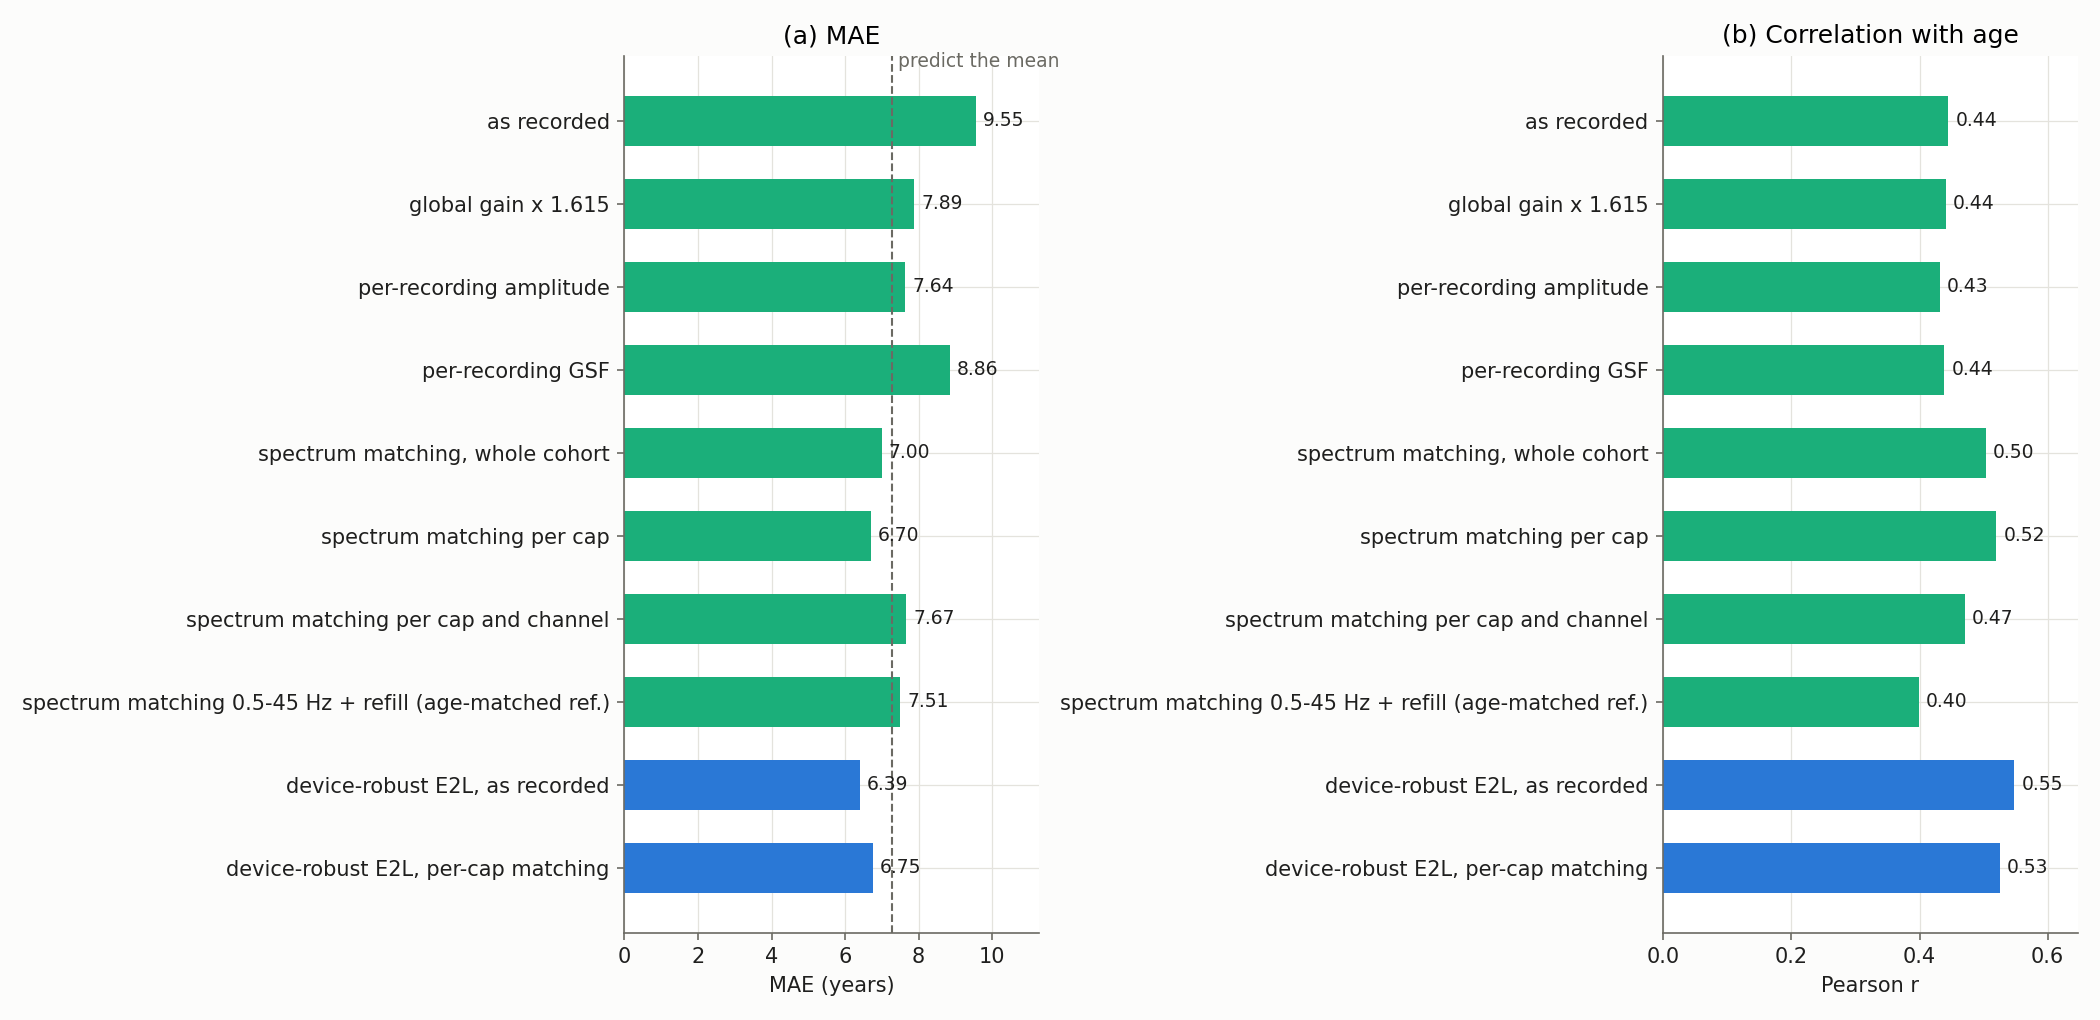
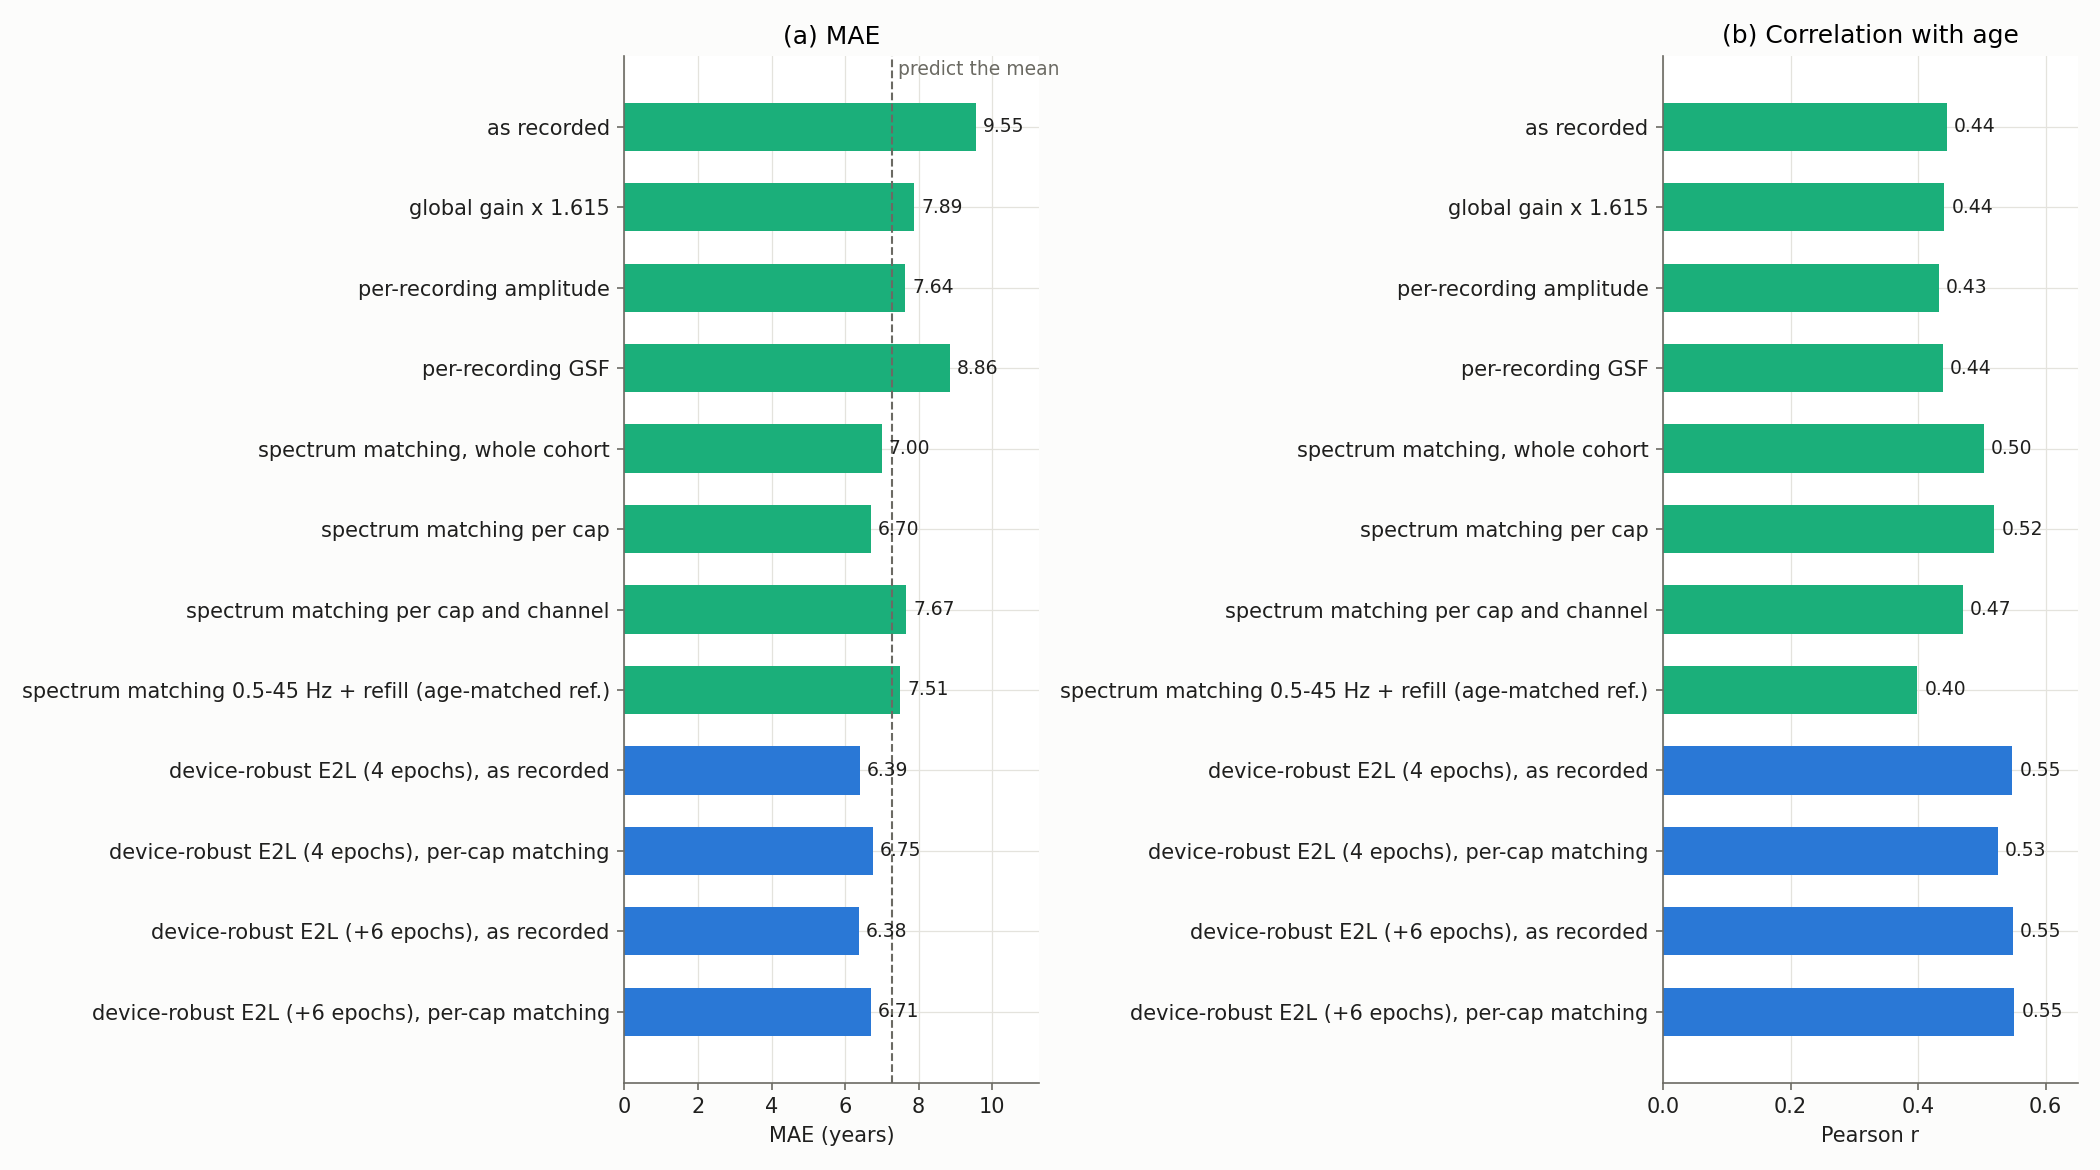
CHBP: device-robust E2L continuation (+6 epochs) results
Continuation of the band 1-45 Hz + amplitude-normalized E2L (Temple + Harvard only):
- in-domain val / test 7.86 / 7.73 (4 epochs 8.10 / 8.04; E2L 7.24 / 7.00)
- LEMON 6.23 (4 epochs 6.52; E2L 5.22), r 0.94
- CHBP as recorded 6.38, bias +0.28, r 0.55 (64-ch 6.03, 120-ch 7.01); E2L 9.55
- known truth: invariant to the CHBP-like degradation (8.50 -> 8.23, r 0.65)
- remaining in-domain cost is a young-age level offset (bias +7.4 vs +5.1, equal
  r and prediction spread) from the discarded amplitude cue; next variant:
  band-only training + cohort-level gain at test time

docs/chbp_domain_shift.md Table 10.3, Figure 10.1, sections 1 and 10.4.

Changed region(s): [[0.4952, 0.0, 0.9905, 0.9725], [0.0, 0.0304, 0.4952, 0.9725], [0.4643, 0.0912, 0.4952, 0.1216]]

diff --git a/scripts/domain_shift_figures.py b/scripts/domain_shift_figures.py
@@ -188,6 +188,7 @@ def tests_table(d, out_csv, chbp_raw, encoding_csv, models=("E2L", "L1", "W4", "
 
 S = "/data/runs/heedb/domain_shift/scores"
 F = "/data/runs/chbp_fix/scores"
+FC = "/data/runs/chbp_fix/scores/e2l_band45_amp_cont_20261112_001004_075"   # 4 + 6 epochs
 EXT = "/data/runs/heedb/external_eval"
 FIXES = [  # (label, kind, [score files], model key)  -- CHBP, first 5 minutes; no CHBP labels used
     ("as recorded", "test-time", [f"{EXT}/chbp_5min.json"], None),
@@ -199,9 +200,12 @@ FIXES = [  # (label, kind, [score files], model key)  -- CHBP, first 5 minutes; 
     ("spectrum matching per cap and channel", "test-time",
      [f"{S}/chbp64_psdmatchchU.json", f"{S}/chbp120_psdmatchchU.json"], None),
     ("spectrum matching 0.5-45 Hz + refill (age-matched ref.)", "test-time", [f"{S}/chbp_psdmatch45_fill.json"], None),
-    ("device-robust E2L, as recorded", "training", [f"{F}/chbp_raw.json"], "E2L-robust"),
-    ("device-robust E2L, per-cap matching", "training",
+    ("device-robust E2L (4 epochs), as recorded", "training", [f"{F}/chbp_raw.json"], "E2L-robust"),
+    ("device-robust E2L (4 epochs), per-cap matching", "training",
      [f"{F}/chbp64_psdmatchU.json", f"{F}/chbp120_psdmatchU.json"], "E2L-robust"),
+    ("device-robust E2L (+6 epochs), as recorded", "training", [f"{FC}/chbp_raw.json"], "E2L-robust"),
+    ("device-robust E2L (+6 epochs), per-cap matching", "training",
+     [f"{FC}/chbp64_psdmatchU.json", f"{FC}/chbp120_psdmatchU.json"], "E2L-robust"),
 ]
 
 

diff --git a/docs/chbp_domain_shift.md b/docs/chbp_domain_shift.md
@@ -68,12 +68,13 @@ Outputs:
    CHBP labels:
    - **Best: a device-robust model.** E2L fine-tuned on Temple + Harvard with a
      1–45 Hz input band and per-window amplitude normalization scores CHBP
-     *as recorded* at MAE 6.39, r 0.55 (E2L: 9.55, r 0.44). That is level with
-     the best published within-CHBP result (6.48, trained on CHBP). The
-     120-channel cap goes from 13.10 to 6.98.
+     *as recorded* at MAE 6.38, r 0.55, bias +0.3 (E2L: 9.55, r 0.44). That is
+     level with the best published within-CHBP result (6.48, trained on CHBP).
+     The 120-channel cap goes from 13.10 to 7.01.
    - **It is invariant to the CHBP-like degradation** (Table 10.3).
-   - **Its in-domain calibration is worse after the short fine-tune** (val MAE
-     8.10 vs 7.24; ranking unchanged). A longer continuation is running.
+   - **It costs some in-domain accuracy:** val 7.86 vs 7.24, LEMON 6.23 vs 5.22,
+     with the ranking unchanged. The cost is a level offset at young ages from
+     discarding amplitude.
    - **Best without retraining: spectrum matching per cap** to a label-free
      Temple / Harvard reference: E2L 6.70, all four models improved
      (Table 10.1).
@@ -652,22 +653,30 @@ where the median runs over the non-zero channels of the window.
   mixup.
 - Selection: the in-domain validation MAE. The best epoch was 2: val 8.10,
   test 8.04 (E2L: 7.24 / 7.00).
-- Launcher: `/data/runs/chbp_fix/run_e2l_band45_amp.sh`.
+- Continuation: 6 more epochs from that checkpoint, 12 windows per recording
+  per epoch, lr 1e-4 (no warm-up, cosine to 1e-6). The best epoch was 2 of 6:
+  val 7.86, test 7.73. Later epochs: val 7.93–7.99.
+- Launchers: `scripts/external_runs/chbp_robust_e2l.sh train` / `continue` /
+  `score`.
 
 ### Table 10.3. E2L and device-robust E2L
 
-First 5 minutes; MAE, bias (2.2), r (2.3). CHBP as recorded, with no test-time
-step.
+First 5 minutes; MAE / bias (2.2) / r (2.3). CHBP is scored as recorded, with no
+test-time step. "4 ep." is the first fine-tune; "+6 ep." its continuation.
+In-domain val / test is the `tuh_heedb_v1` validation and test split, all
+reports and ages (MAE only). Per-model rows:
+`docs/data/external_eval/chbp/robust_e2l_comparison.csv`.
 
-| set | n | E2L MAE | E2L bias | E2L r | robust MAE | robust bias | robust r |
-|---|---|---|---|---|---|---|---|
-| Temple + Harvard, age-matched | 300 | 7.02 | +5.10 | 0.66 | 8.61 | +7.48 | 0.65 |
-| same, × 0.62 and band 0.5–50 Hz | 300 | 13.71 | +12.59 | 0.37 | **8.48** | +7.30 | **0.65** |
-| LEMON | 214 | 5.22 | −1.11 | 0.95 | 6.52 | +1.05 | 0.94 |
-| **CHBP as recorded** | 250 | 9.55 | +7.05 | 0.44 | **6.39** | +1.34 | **0.55** |
-| CHBP 64-ch cap | 161 | 7.58 | | 0.55 | **6.07** | | **0.59** |
-| CHBP 120-ch cap | 89 | 13.10 | | 0.27 | **6.98** | | **0.46** |
-| CHBP, per-cap spectrum matching | 250 | 6.70 | +0.82 | 0.52 | 6.75 | +2.53 | 0.53 |
+| set | n | E2L | robust, 4 ep. | robust, +6 ep. |
+|---|---|---|---|---|
+| in-domain val / test, MAE | — | 7.24 / 7.00 | 8.10 / 8.04 | 7.86 / 7.73 |
+| Temple + Harvard, age-matched | 300 | 7.02 / +5.10 / 0.66 | 8.61 / +7.48 / 0.65 | 8.50 / +7.39 / 0.65 |
+| same, × 0.62 and band 0.5–50 Hz | 300 | 13.71 / +12.59 / 0.37 | 8.48 / +7.30 / 0.65 | **8.23** / +6.99 / **0.65** |
+| LEMON | 214 | 5.22 / −1.11 / 0.95 | 6.52 / +1.05 / 0.94 | 6.23 / +1.49 / 0.94 |
+| **CHBP as recorded** | 250 | 9.55 / +7.05 / 0.44 | 6.39 / +1.34 / 0.55 | **6.38 / +0.28 / 0.55** |
+| CHBP 64-ch cap | 161 | 7.58 / +4.98 / 0.55 | 6.07 / +1.11 / 0.59 | **6.03 / −0.10 / 0.60** |
+| CHBP 120-ch cap | 89 | 13.10 / +10.80 / 0.27 | 6.98 / +1.77 / 0.46 | 7.01 / +0.95 / 0.45 |
+| CHBP, per-cap spectrum matching | 250 | 6.70 / +0.82 / 0.52 | 6.75 / +2.53 / 0.53 | 6.71 / +2.74 / 0.55 |
 
 ### Figure 10.1. Every CHBP fix, E2L
 
@@ -679,18 +688,27 @@ dashed line is the predict-the-mean MAE, 7.27.
 
 **What Table 10.3 and Figure 10.1 show:**
 - **The device-robust model is the best fix.**
-  - On CHBP as recorded: MAE 6.39, R² 0.19, r 0.55, bias +1.3.
+  - On CHBP as recorded: MAE 6.38, R² 0.18, r 0.55, bias +0.3 after the
+    continuation (4 epochs: 6.39, R² 0.19, bias +1.3).
   - It needs no test-time step at all. Spectrum matching on top adds nothing
-    (6.75).
-  - It also fixes the 120-channel cap (13.10 → 6.98) without knowing about it.
+    (6.71).
+  - It also fixes the 120-channel cap (13.10 → 7.01) without knowing about it.
 - **It is invariant to the CHBP-like degradation on known truth**
-  (8.61 → 8.48, r 0.65 → 0.65; E2L: 7.02 → 13.71, r 0.66 → 0.37).
-- **Its in-domain and LEMON accuracy is worse after 4 short epochs**
-  (age-matched in-domain 8.61 vs 7.02; LEMON 6.52 vs 5.22). The ranking is
-  intact (r 0.65 / 0.94 vs 0.66 / 0.95), so the loss is calibration: a larger
-  young-age bias (+7.5 vs +5.1).
-  - It should shrink with longer training. A 6-epoch continuation at 2 minutes
-    per recording is running (`/data/runs/chbp_fix/run_e2l_band45_amp_cont.sh`).
+  (8.50 → 8.23, r 0.65 → 0.65; E2L: 7.02 → 13.71, r 0.66 → 0.37).
+- **Training longer narrows its in-domain cost without changing CHBP.**
+  - In-domain val 8.10 → 7.86 (E2L 7.24).
+  - LEMON 6.52 → 6.23 (E2L 5.22).
+  - CHBP stays at 6.38–6.39.
+- **The remaining cost is a level offset at young ages, not compression.** On
+  the age-matched in-domain sample the bias is +7.4 vs E2L's +5.1, while the
+  ranking is equal (r 0.65 vs 0.66). The spread of the predictions matches that
+  of the ages (SD 9.56 vs 9.57 years).
+  - Per-window amplitude normalization (10.3) discards a cue that is real within
+    one device: young clinical recordings have higher amplitude (Figure 5.1(a)).
+    The same cue misleads across devices, which is why it was removed.
+  - Keeping it within a device while removing the gain between devices points
+    to the next variant: band-limited training without amplitude normalization,
+    plus one cohort-level gain to the training median at test time (7.1).
 
 ### 10.3 Handcrafted features: wavelets, scattering and others
 
@@ -780,7 +798,7 @@ indistinguishable.
 ### 10.4 Which fix is best
 
 **Ranking on CHBP** (E2L, MAE / r; no CHBP labels anywhere):
-1. **device-robust model, as recorded: 6.39 / 0.55**;
+1. **device-robust model, as recorded: 6.38 / 0.55** (6.39 after 4 epochs);
 2. per-cap spectrum matching: 6.70 / 0.52;
 3. whole-cohort spectrum matching: 7.00 / 0.50;
 4. gain-only fixes: 7.6–7.9 / 0.43–0.44;
@@ -792,7 +810,9 @@ The feature models reach ≥ 9.5 / ≤ 0.38.
 1. **Train age models on device-robust inputs:** band 1–45 Hz and per-window
    amplitude normalization (10.2, 10.3). It removes both shifted properties at
    the source and needs nothing from the target cohort. The remaining cost is
-   in-domain calibration after a short fine-tune; a longer run is under way.
+   in-domain: val 7.86 vs 7.24, LEMON 6.23 vs 5.22, a young-age offset from the
+   discarded amplitude cue. The next variant is band-only training with a
+   cohort-level gain at test time (Section 10.2).
 2. **Without retraining, use per-cap spectrum matching** to a label-free
    Temple / Harvard reference spectrum (7.5).
 3. **Keep CHBP an external test.** Report it per cap, beside the 7.27
@@ -800,7 +820,7 @@ The feature models reach ≥ 9.5 / ≤ 0.38.
 
 **Against the published result.** The best published CHBP result is
 within-CHBP 10-fold CV, 6.48 ± 0.60 (R² 0.18; Engemann et al. 2022), trained
-on CHBP. The device-robust model reaches 6.39 (R² 0.19) zero-shot, never having
+on CHBP. The device-robust model reaches 6.38 (R² 0.18) zero-shot, never having
 seen CHBP. Spectrum matching to a training-set barycenter spectrum is the idea
 behind Convolutional Monge Mapping Normalization (Gnassounou et al. 2023), which
 was used for sleep staging.

diff --git a/docs/chbp_onboarding.md b/docs/chbp_onboarding.md
@@ -292,15 +292,16 @@ normalize such data, is analysed in `docs/chbp_domain_shift.md`. In short:
 The fix (`docs/chbp_domain_shift.md` §10) is a device-robust E2L: fine-tuned on
 Temple / Harvard with a 1–45 Hz input band and per-window amplitude
 normalization (`labram_plus.band_hz`, `labram_plus.amplitude_norm`). It scores
-CHBP as recorded at MAE 6.39, r 0.55 (E2L 9.55, r 0.44), zero-shot. Without
+CHBP as recorded at MAE 6.38, r 0.55 (E2L 9.55, r 0.44), zero-shot. Without
 retraining, per-cap spectrum matching to a label-free Temple / Harvard spectrum
 gives E2L 6.70.
 
 Next steps, all on the training side:
-1. **Close the in-domain gap of the device-robust model.** After 4 short
-   epochs: val 8.10 vs 7.24, LEMON 6.52 vs 5.22, with the ranking unchanged.
-   A 6-epoch continuation is running (`scripts/external_runs/chbp_robust_e2l.sh
-   continue`). Then rescore CHBP, LEMON and MIPDB.
+1. **Close the in-domain gap of the device-robust model.** After 4 + 6 epochs:
+   val 7.86 vs 7.24, LEMON 6.23 vs 5.22, with the ranking unchanged. The gap is
+   a young-age offset from the discarded amplitude cue. Next variant: band-only
+   training plus a cohort-level gain at test time. Then rescore CHBP, LEMON and
+   MIPDB.
 2. **Robustness checks during training.** Score the label-free forward tests of
    `docs/chbp_domain_shift.md` (Table 7.1) on the validation split as a
    robustness benchmark.
